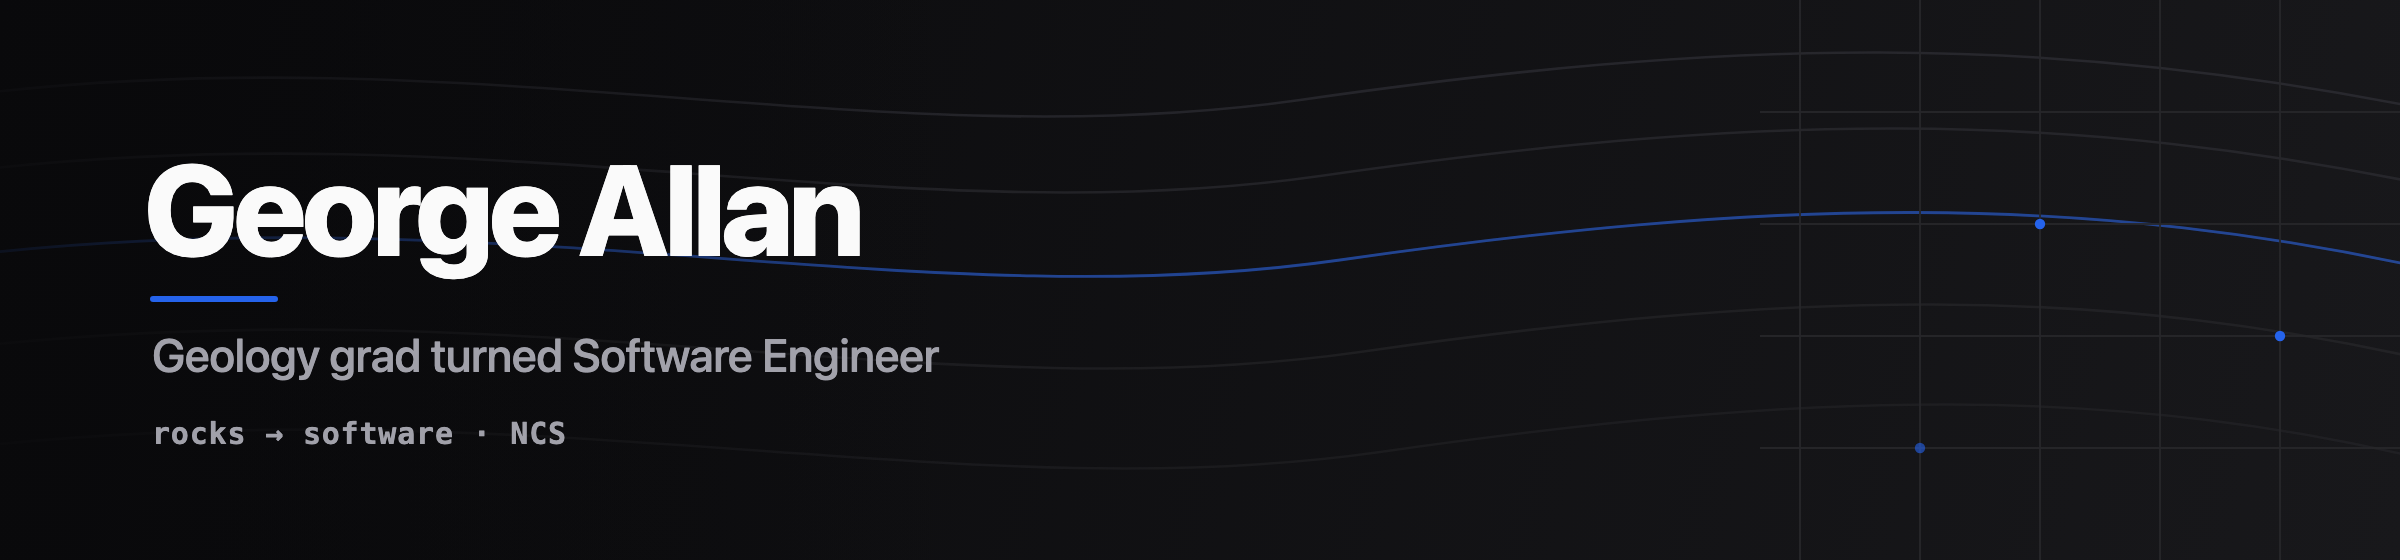
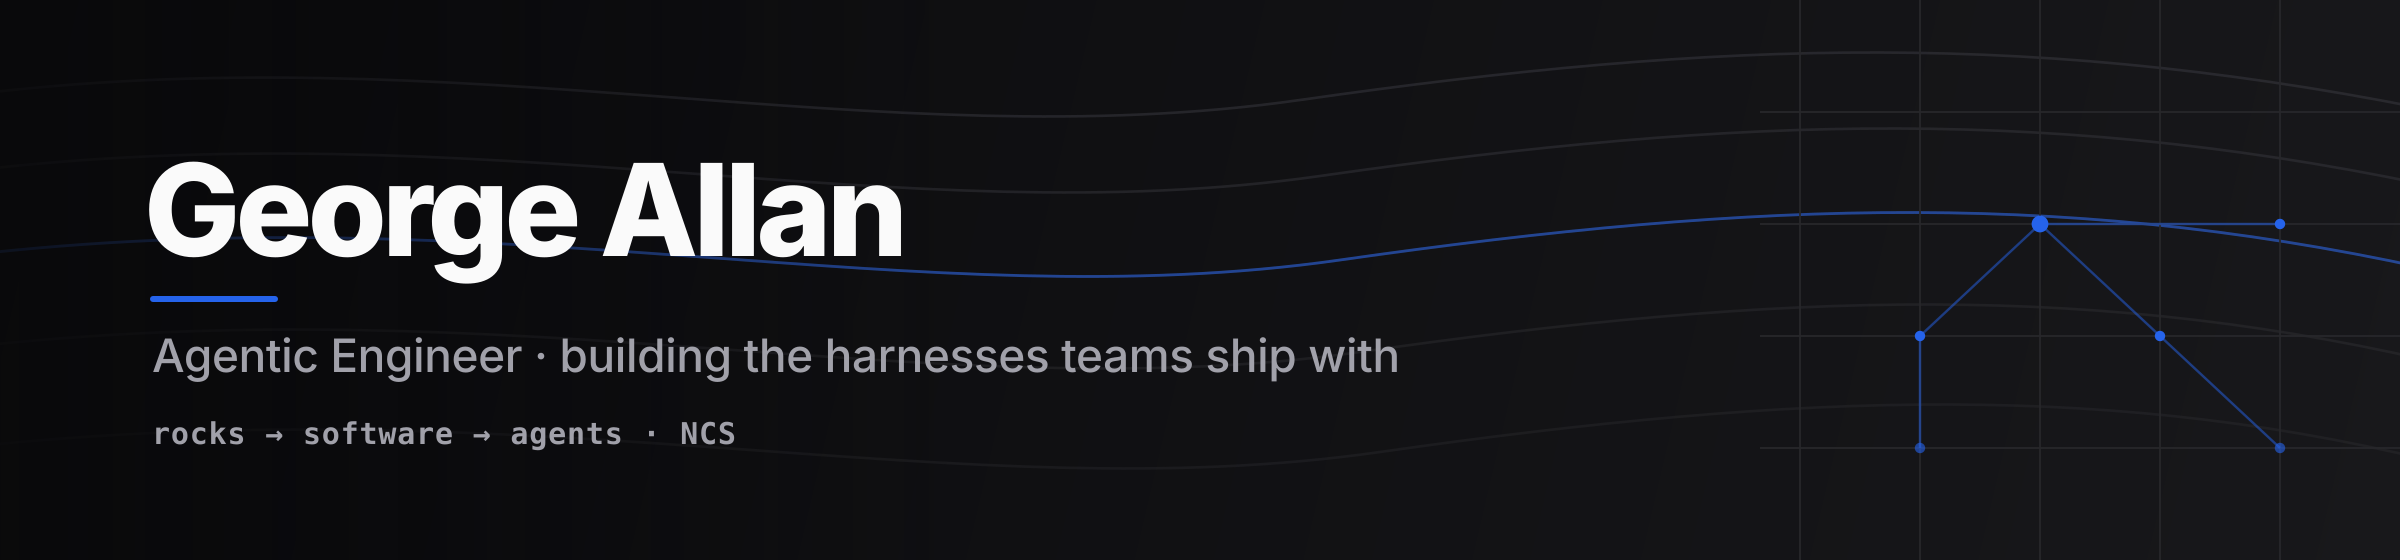
Reposition profile around agentic engineering
- Banner: new tagline and an agent graph motif
- Add Hive section; lead About Me with agentic work
- Remove view counter, typing banner and activity graph
- Collapse badge wall into a compact stack line

Claude-Session: https://claude.ai/code/session_01BAgEGmXzzXPF7n4ZXVdB4B

diff --git a/README.md b/README.md
@@ -1,38 +1,29 @@
 <div align="center">
-  <img src="./banner-strata.png" width="100%" alt="George Allan — Geology grad turned Software Engineer" />
+  <img src="./banner-strata.png" width="100%" alt="George Allan — Agentic Engineer at NCS. Building the harnesses teams ship with." />
 </div>
 
-<div align="center">
-  <img
-    src="https://readme-typing-svg.demolab.com?font=Space+Mono&weight=700&size=22&pause=1200&color=2563EB&center=true&vCenter=true&width=900&lines=From+rocks+to+software;Self-taught%2C+with+AI+as+my+co-pilot;Choices+beat+talent.+Shipping+beats+credentials."
-    alt="What I'm about"
-  />
-</div>
+<p align="center"><b>Choices beat talent. Shipping beats credentials.</b></p>
 
 <div align="center">
-  <a href="https://ncs.agency/"><img src="https://img.shields.io/badge/Website-ncs.agency-2563EB?style=for-the-badge&logo=googlechrome&logoColor=white" alt="Website" /></a>
+  <a href="https://ncs.agency/"><img src="https://img.shields.io/badge/NCS-ncs.agency-2563EB?style=for-the-badge&logo=googlechrome&logoColor=white" alt="NCS website" /></a>
   <a href="https://www.linkedin.com/in/george-allan-3479a0237"><img src="https://img.shields.io/badge/LinkedIn-Connect-0A66C2?style=for-the-badge&logo=linkedin&logoColor=white" alt="LinkedIn" /></a>
-  <img src="https://komarev.com/ghpvc/?username=George-595&label=Profile%20Views&color=2563eb&style=for-the-badge" alt="Profile views" />
 </div>
 
 ## About Me
 
-I'm a software engineer at **NCS**, an AI-first engineering consultancy — and I got here without a CS degree.
+I'm an **agentic engineer** at **NCS**, an AI-first engineering consultancy. I build the harnesses, skills and orchestration that let a whole engineering team ship with AI agents, and I got here without a CS degree.
 
-I studied **Geology** (BSc, University of Southampton), then taught myself to code the practical way. It started with crypto trading systems — first in PineScript, then graduating to real Python by getting AI to translate my own scripts. Three years of side projects later, while working as a geotechnical engineer, I built an app that turned muddy, handwritten borehole field notes into structured `.ags` data using an AI handwriting model. That's when it clicked: the thing I built on weekends for free was the thing I should be paid to do on a Monday.
-
-- Working across a TypeScript monorepo every day, building with AI agents
-- Self-taught the long way round: rocks → trading bots → production software
-- Big on doing things the correct, secure way over the quick hack
+I studied **Geology** at Southampton and taught myself to code the long way round: PineScript trading bots, then Python, then a weekend app that turned muddy, handwritten borehole logs into structured `.ags` data with an AI handwriting model. That's when it clicked: the thing I built on weekends for free was the thing I should be paid to do on a Monday.
 
 <table>
   <tr>
     <td width="50%" valign="top">
       <h3>What I'm About</h3>
       <ul>
+        <li>Agents are only as good as their harness</li>
         <li>Secure, correct code over quick hacks</li>
         <li>Understanding the <em>why</em> behind every decision</li>
-        <li>Shipping things &mdash; done beats perfect</li>
+        <li>Shipping &mdash; done beats perfect</li>
       </ul>
     </td>
     <td width="50%" valign="top">
@@ -40,56 +31,44 @@ I studied **Geology** (BSc, University of Southampton), then taught myself to co
       <ul>
         <li>BSc Geology &mdash; University of Southampton</li>
         <li>Geotechnical Engineer &mdash; Ian Farmer Associates (RSK)</li>
-        <li>Associate Software Engineer &mdash; NCS</li>
+        <li>Associate Software Engineer &mdash; NCS, specialising in agentic &amp; harness engineering</li>
       </ul>
     </td>
   </tr>
 </table>
 
-## Projects
+## What I've Built
+
+### 🐝 Hive — *multi-agent orchestration for Claude Code*
+
+I designed and built Hive inside NCS's internal engineering toolkit, and it's now how our whole team works. Hive coordinates a team of Claude Code agents on a single piece of work, so engineers direct the work instead of babysitting one chat at a time.
+
+- **Token-efficient by design:** built around prompt caching, so agents reuse shared context instead of paying for it again on every call
+- **Resource-aware:** manages CPU load so running many agents doesn't grind a dev machine to a halt
+- **Adopted team-wide:** it started as my own workflow and became the team's default way of building
+
+<sub>Hive is internal to NCS, so there's no public repo, but I'm happy to talk through how it works.</sub>
 
 ### Quore Geotechnical — *instant, client-ready site intelligence*
 
-The product that turned me from a geotechnical engineer into a software engineer. Field crews used to scrawl borehole logs on paper that came back to the office mud-smeared and half-illegible, then someone retyped it all by hand into HoleBASE / OpenGround — hours per site. Quore kills that loop: snap a photo of the site notes, an **AI handwriting model** extracts the data, and the app exports standards-compliant **`.ags`** files straight into the industry databases. No retyping.
+The product that turned me from a geotechnical engineer into a software engineer. Borehole logs came back from site mud-smeared and half-illegible, and someone retyped them by hand into HoleBASE / OpenGround, which took hours per site. With Quore you snap a photo of the notes, an **AI handwriting model** extracts the data, and the app exports standards-compliant **`.ags`** files straight into the industry databases.
 
 <a href="https://quoresoftware.com/quore-geotechnical"><img src="https://img.shields.io/badge/Website-quoresoftware.com-2563EB?style=for-the-badge&logo=googlechrome&logoColor=white" alt="Quore Geotechnical website" /></a>
 <a href="https://github.com/George-595/ags_oss_validateviewedit"><img src="https://img.shields.io/badge/AGS4.2_Toolkit-181717?style=for-the-badge&logo=github&logoColor=white" alt="AGS4.2 validator, viewer and editor" /></a>
 
 ### Furniture Friends — *AI inventory management for a local charity*
 
-A pro-bono build for **Furniture Friends**, a Datchworth charity that gives donated furniture a second home. I replaced their manual stock-keeping with an **AI-powered inventory management** system, so the volunteers can track what's come in, what's available, and where it's gone without the spreadsheet wrangling.
+A pro-bono build for **Furniture Friends**, a Datchworth charity that finds new homes for donated furniture. It replaced their manual stock-keeping with an **AI-powered inventory system**, so volunteers can see what's come in, what's available and where it's gone without wrestling a spreadsheet.
 
 <a href="https://www.datchworth.com/furniture-friends/"><img src="https://img.shields.io/badge/Website-datchworth.com-2563EB?style=for-the-badge&logo=googlechrome&logoColor=white" alt="Furniture Friends charity website" /></a>
 
-## Core Stack
+<!--
+## Writing
+Uncomment once the first post is up — notes on building agent harnesses.
+- [Post title](https://link) — one-line summary
+-->
 
-### Languages
-![TypeScript](https://img.shields.io/badge/TypeScript-3178C6?style=for-the-badge&logo=typescript&logoColor=white)
-![JavaScript](https://img.shields.io/badge/JavaScript-F7DF1E?style=for-the-badge&logo=javascript&logoColor=black)
-![Python](https://img.shields.io/badge/Python-3776AB?style=for-the-badge&logo=python&logoColor=white)
-![Bash](https://img.shields.io/badge/Bash-4EAA25?style=for-the-badge&logo=gnubash&logoColor=white)
+## Stack
 
-### Frameworks & Runtime
-![Node.js](https://img.shields.io/badge/Node.js-339933?style=for-the-badge&logo=nodedotjs&logoColor=white)
-![React](https://img.shields.io/badge/React-61DAFB?style=for-the-badge&logo=react&logoColor=black)
-![Next.js](https://img.shields.io/badge/Next.js-000000?style=for-the-badge&logo=nextdotjs&logoColor=white)
-
-### Data & Infra
-![PostgreSQL](https://img.shields.io/badge/PostgreSQL-4169E1?style=for-the-badge&logo=postgresql&logoColor=white)
-![Docker](https://img.shields.io/badge/Docker-2496ED?style=for-the-badge&logo=docker&logoColor=white)
-![Turborepo](https://img.shields.io/badge/Turborepo-EF4444?style=for-the-badge&logo=turborepo&logoColor=white)
-
-### Tools & Workflow
-![Claude Code](https://img.shields.io/badge/Claude_Code-D97757?style=for-the-badge&logo=claude&logoColor=white)
-![Warp](https://img.shields.io/badge/Warp-01A4FF?style=for-the-badge&logo=warp&logoColor=white)
-![Obsidian](https://img.shields.io/badge/Obsidian-7C3AED?style=for-the-badge&logo=obsidian&logoColor=white)
-![Wispr Flow](https://img.shields.io/badge/Wispr_Flow-5B8DEF?style=for-the-badge)
-![Git](https://img.shields.io/badge/Git-F05032?style=for-the-badge&logo=git&logoColor=white)
-![GitHub](https://img.shields.io/badge/GitHub-181717?style=for-the-badge&logo=github&logoColor=white)
-![pnpm](https://img.shields.io/badge/pnpm-F69220?style=for-the-badge&logo=pnpm&logoColor=white)
-
-## GitHub Activity
-
-<div align="center">
-  <img width="100%" src="https://github-readme-activity-graph.vercel.app/graph?username=George-595&theme=react-dark&hide_border=true&area=true&color=2563eb&line=2563eb&point=ffffff" alt="Contribution activity graph" />
-</div>
+**Languages** TypeScript · JavaScript · Python · Bash &nbsp;|&nbsp; **Runtime** Node.js · React · Next.js &nbsp;|&nbsp; **Data & infra** PostgreSQL · Docker · Turborepo<br>
+**Agentic** Claude Code · skills & sub-agents · prompt caching &nbsp;|&nbsp; **Workflow** Git · pnpm · Warp · Obsidian · Wispr Flow
